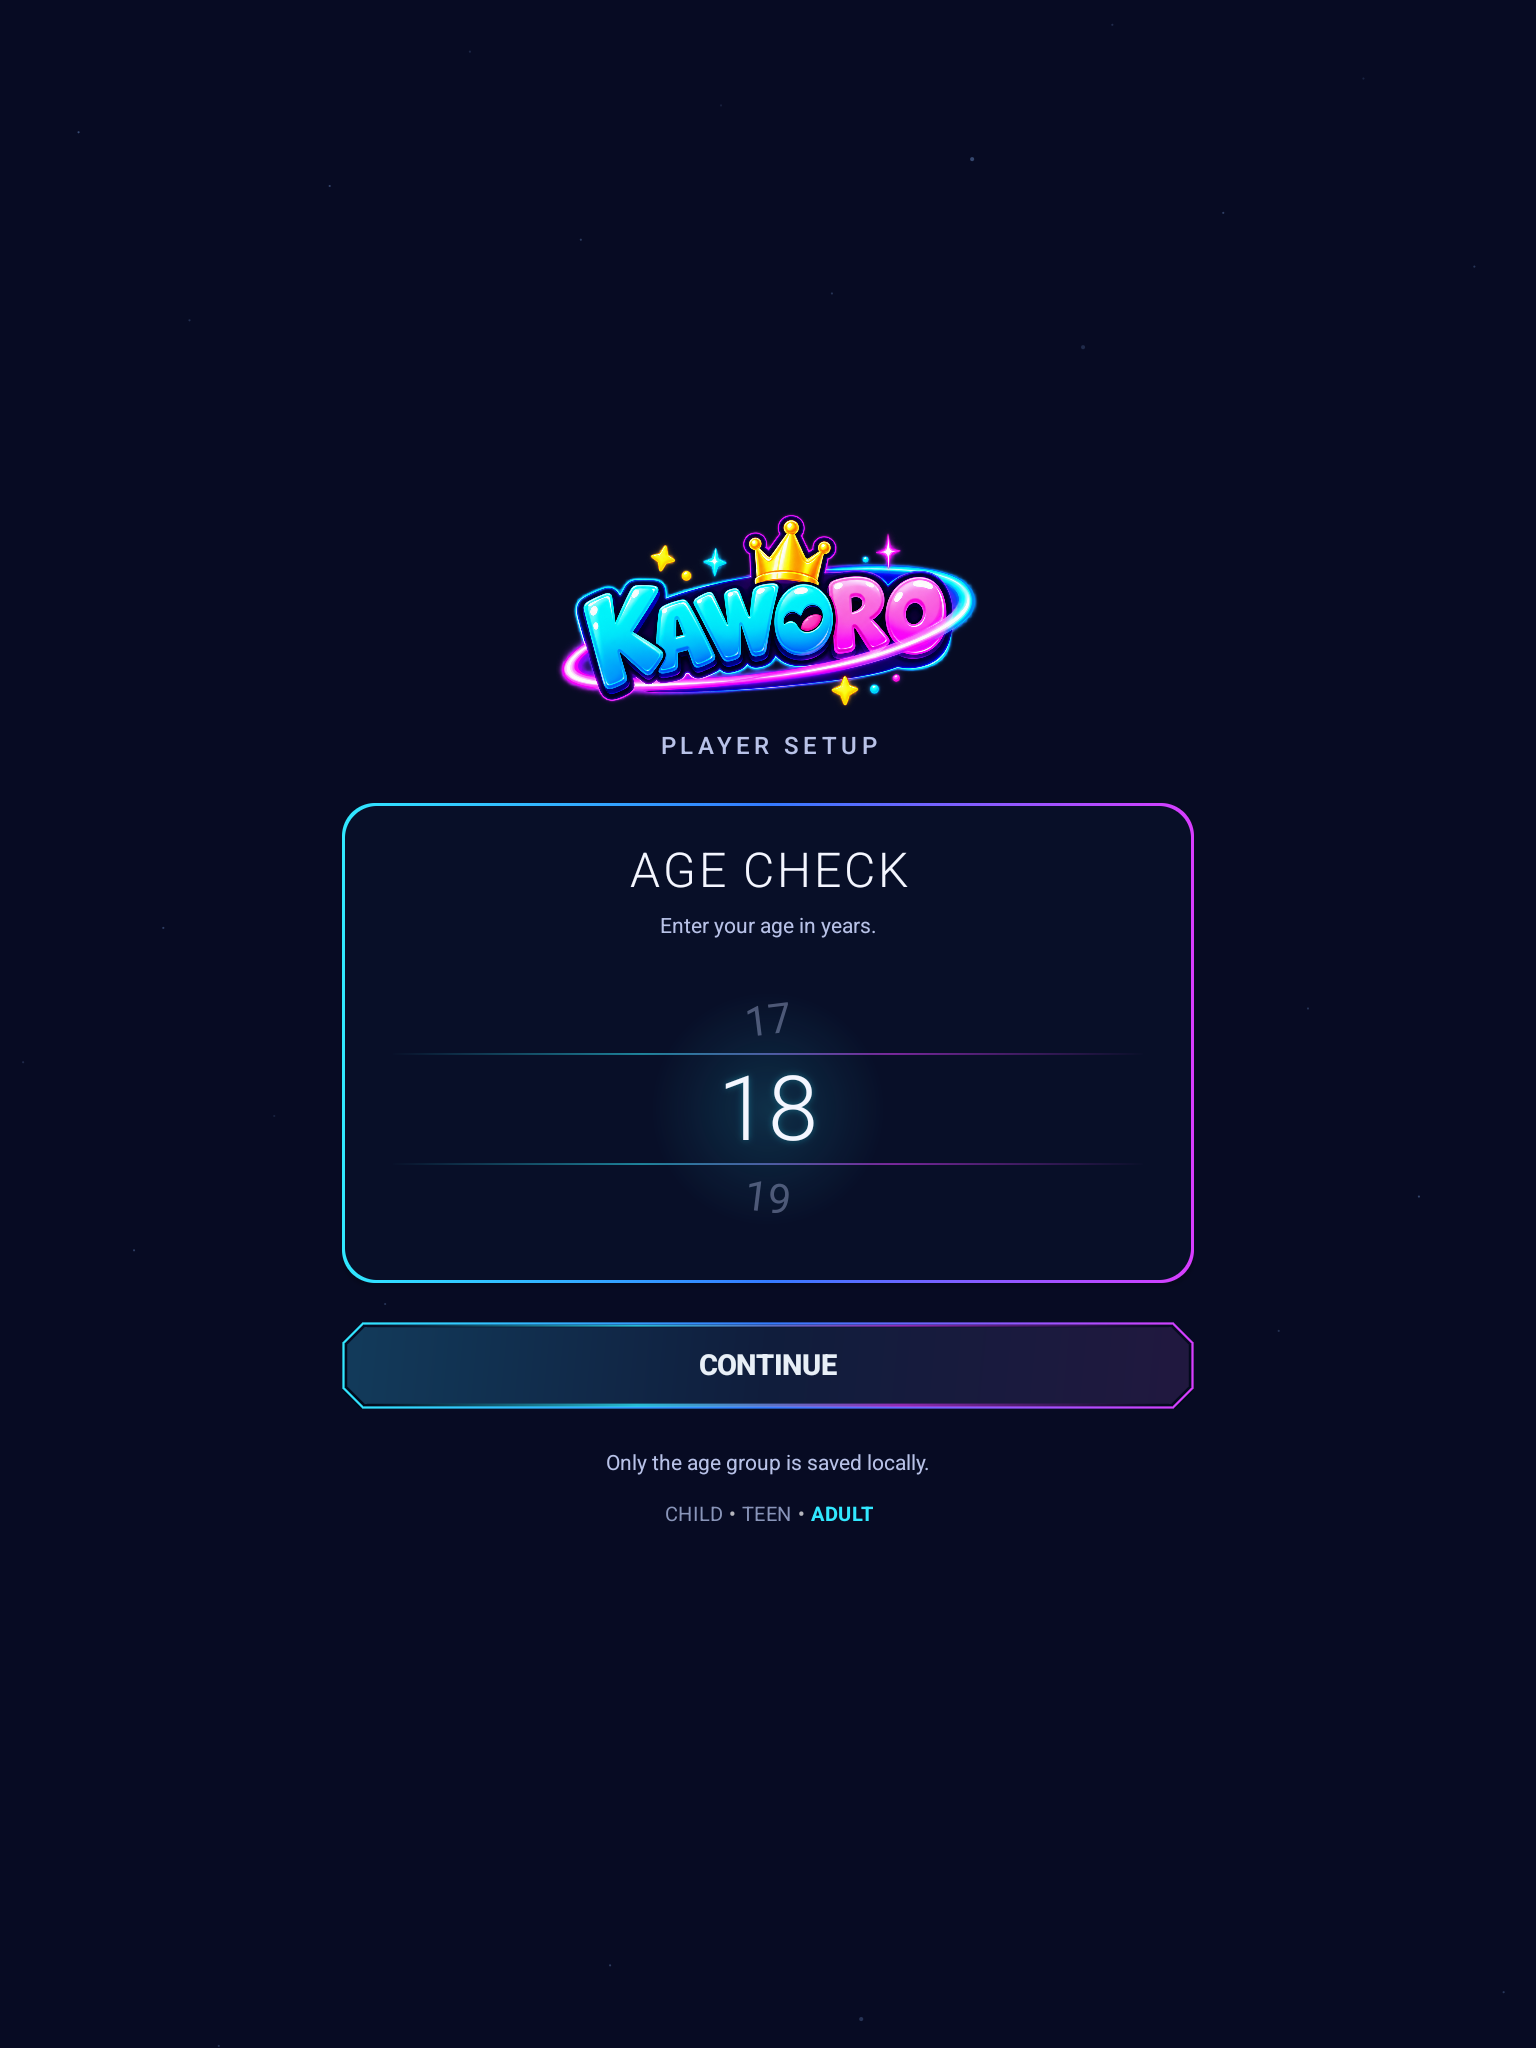
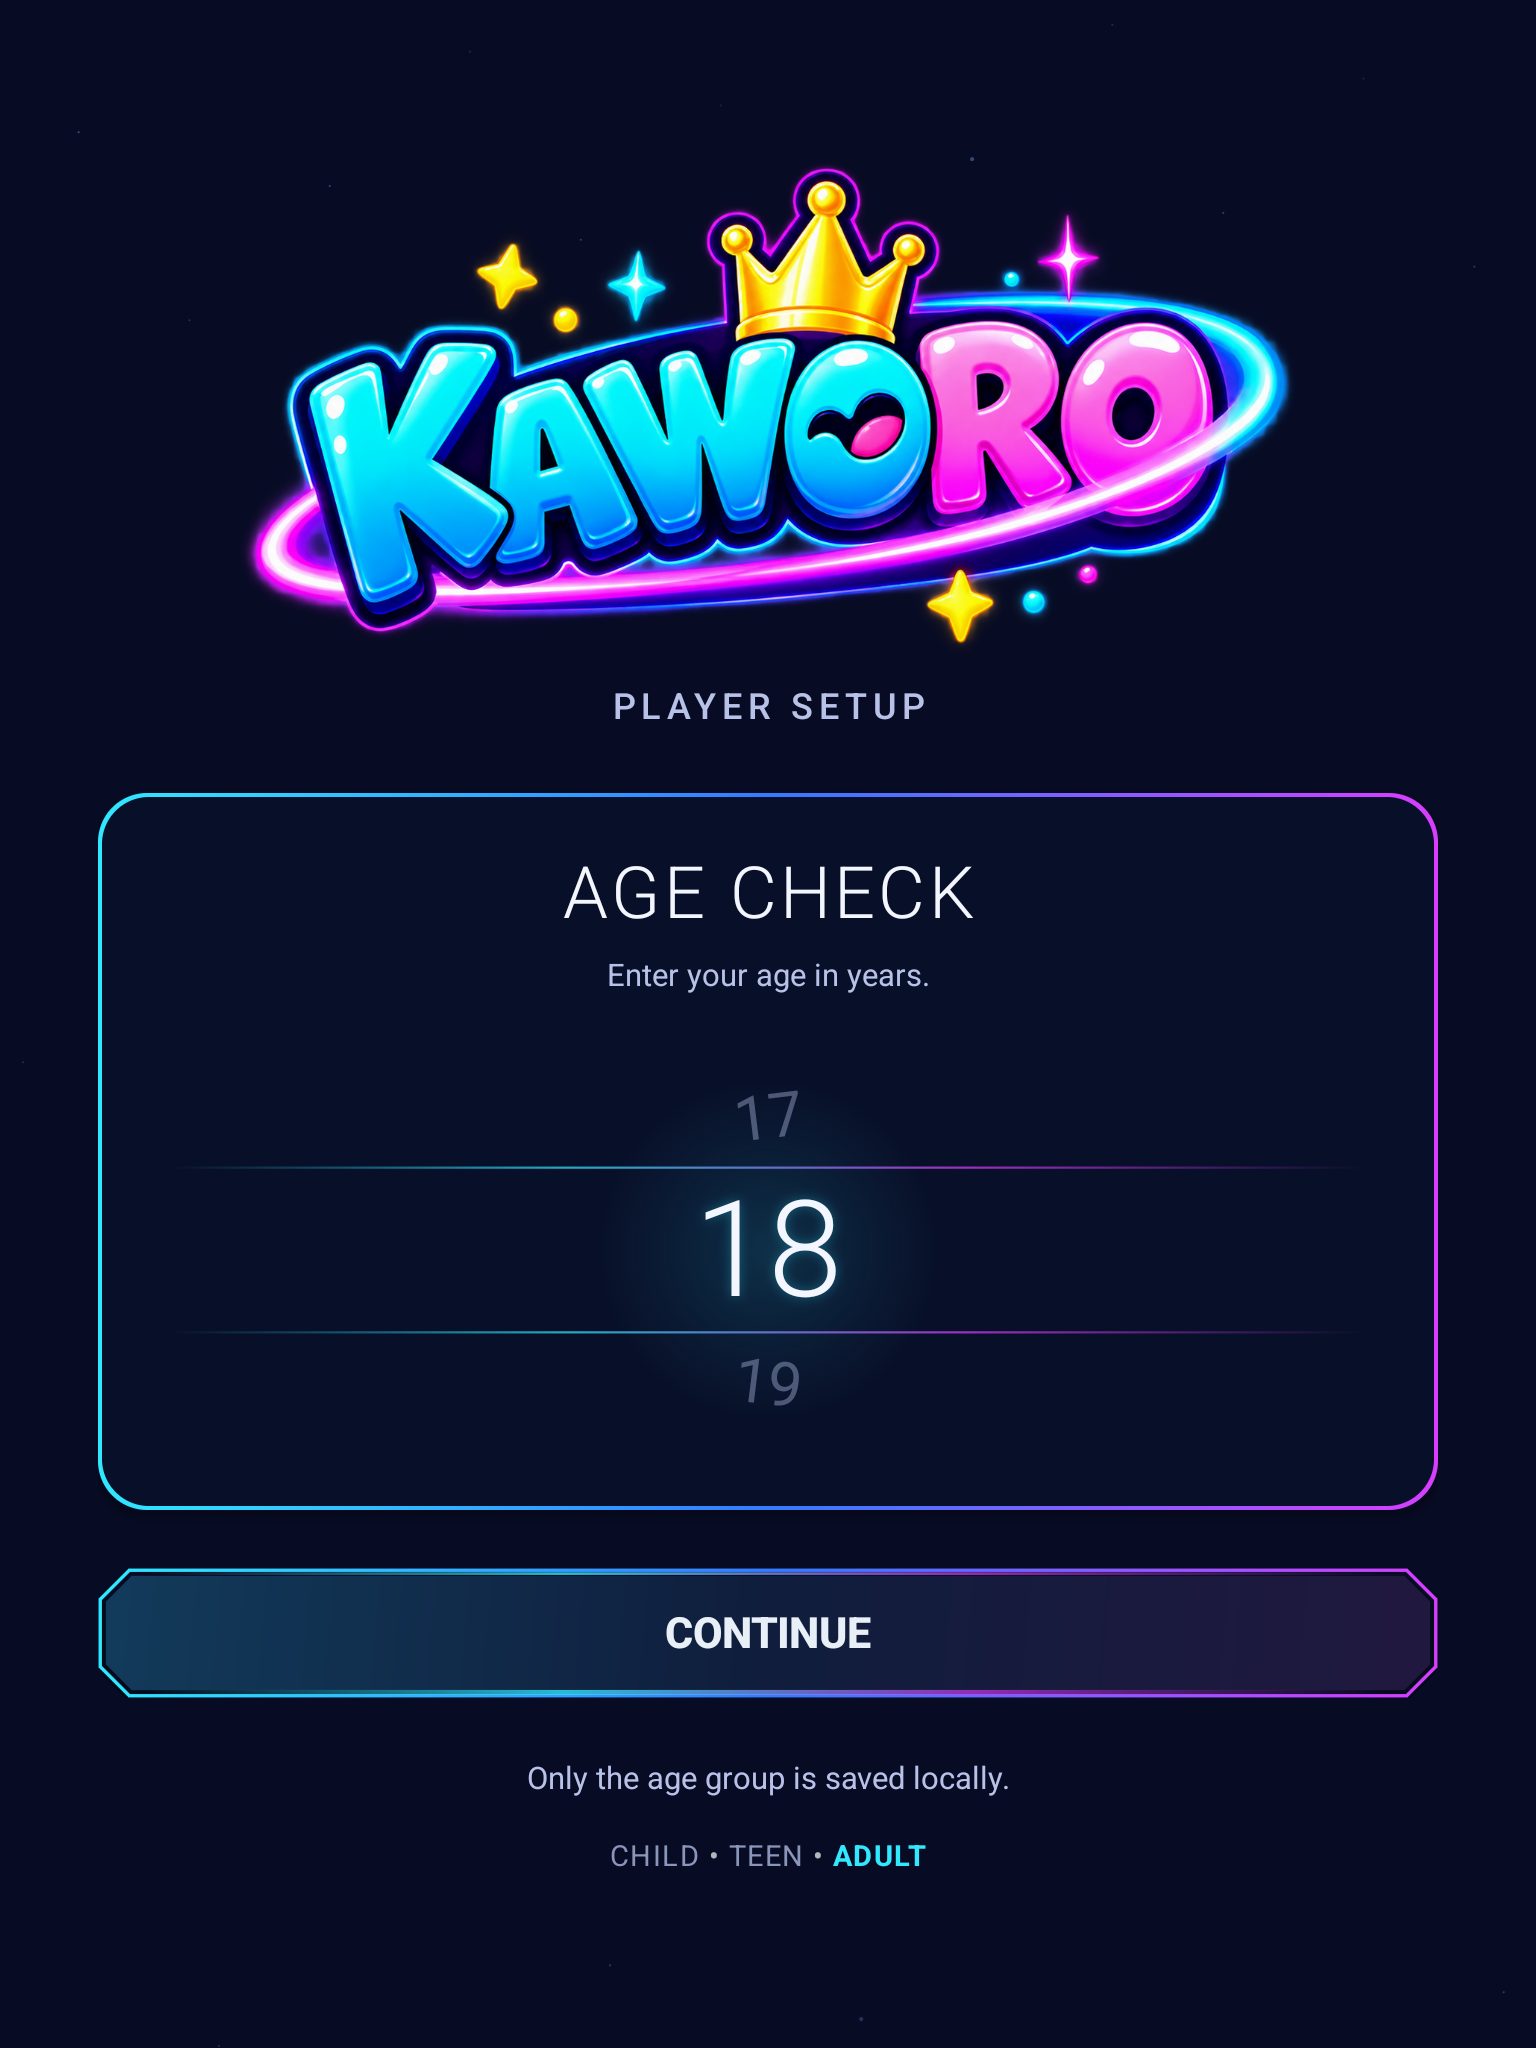
Scale Age Check for larger displays

diff --git a/app/src/main/java/com/moonsolstudios/kavvoro/ui/screens/agecheck/AgeCheckScreenView.kt b/app/src/main/java/com/moonsolstudios/kavvoro/ui/screens/agecheck/AgeCheckScreenView.kt
@@ -51,6 +51,14 @@ class AgeCheckScreenView @JvmOverloads constructor(
     private var categoryLabel: TextView? = null
     private var picker: AgePickerView? = null
 
+    private data class PortraitMetrics(
+        val compact: Boolean,
+        val scale: Float,
+        val maxWidthDp: Float,
+        val logoWidthDp: Float,
+        val logoHeightDp: Float
+    )
+
     init {
         setBackgroundColor(KavvoroPalette.background)
         setWillNotDraw(false)
@@ -84,8 +92,9 @@ class AgeCheckScreenView @JvmOverloads constructor(
         val landscape = resources.configuration.orientation ==
             android.content.res.Configuration.ORIENTATION_LANDSCAPE &&
             resources.configuration.smallestScreenWidthDp >= 600
-        val body = if (landscape) buildLandscapeLayout() else buildPortraitLayout()
-        val maxWidth = if (landscape) dp(1160f) else dp(620f)
+        val portraitMetrics = if (landscape) null else portraitMetrics()
+        val body = if (landscape) buildLandscapeLayout() else buildPortraitLayout(portraitMetrics!!)
+        val maxWidth = if (landscape) dp(1160f) else dp(portraitMetrics!!.maxWidthDp)
         addView(
             body,
             LayoutParams(minOf(maxWidth, resources.displayMetrics.widthPixels),
@@ -93,32 +102,63 @@ class AgeCheckScreenView @JvmOverloads constructor(
         )
     }
 
-    private fun buildPortraitLayout(): View {
+    private fun portraitMetrics(): PortraitMetrics {
+        val density = resources.displayMetrics.density
+        val widthDp = resources.displayMetrics.widthPixels / density
         val heightDp = resources.configuration.screenHeightDp.takeIf { it > 0 }
             ?: (resources.displayMetrics.heightPixels / resources.displayMetrics.density).roundToInt()
+        val widthScale = (widthDp / 411f).coerceIn(0.8f, 2.5f)
+        // 1080x2400 at 420 dpi is the canonical 411x914 dp composition.
+        // Tablets grow with their available height, while small phones retain
+        // the existing legible minimum instead of shrinking every control.
+        val scale = minOf(widthDp / 411f, heightDp / 914f).coerceIn(1f, 1.5f)
         val compact = heightDp < 840
+        val maxWidthDp = 650f * scale
+        val contentWidthDp = (min(widthDp, maxWidthDp) - 52f * scale).coerceAtLeast(0f)
+        val logoWidthDp = minOf(286f * widthScale, contentWidthDp * 0.82f)
+        return PortraitMetrics(
+            compact = compact,
+            scale = scale,
+            maxWidthDp = maxWidthDp,
+            logoWidthDp = logoWidthDp,
+            logoHeightDp = logoWidthDp * (132f / 286f)
+        )
+    }
+
+    private fun buildPortraitLayout(metrics: PortraitMetrics): View {
+        val compact = metrics.compact
+        val scale = metrics.scale
         val content = LinearLayout(context).apply {
             orientation = LinearLayout.VERTICAL
             gravity = Gravity.CENTER_HORIZONTAL
-            setPadding(dp(26f), dp(if (compact) 14f else 22f), dp(26f), dp(if (compact) 14f else 22f))
+            setPadding(
+                dp(26f * scale),
+                dp((if (compact) 14f else 22f) * scale),
+                dp(26f * scale),
+                dp((if (compact) 14f else 22f) * scale)
+            )
         }
         content.addView(Space(context), LinearLayout.LayoutParams(1, 0, 1f))
         content.addView(
             logoImage(),
-            LinearLayout.LayoutParams(dp(if (compact) 250f else 286f), dp(if (compact) 116f else 132f))
+            LinearLayout.LayoutParams(dp(metrics.logoWidthDp), dp(metrics.logoHeightDp))
         )
-        content.addView(setupLabel(), linearParams(height = dp(30f)).apply { topMargin = dp(8f) })
-        content.addView(makeAgeCard(compact), linearParams(height = dp(if (compact) 276f else 320f)).apply {
-            topMargin = dp(if (compact) 16f else 24f)
+        content.addView(setupLabel(scale), linearParams(height = dp(30f * scale)).apply {
+            topMargin = dp(8f * scale)
         })
-        content.addView(continueButton(), linearParams(height = dp(58f)).apply {
-            topMargin = dp(if (compact) 20f else 26f)
+        content.addView(makeAgeCard(compact, scale), linearParams(
+            height = dp((if (compact) 276f else 320f) * scale)
+        ).apply {
+            topMargin = dp((if (compact) 16f else 24f) * scale)
         })
-        content.addView(privacyNote(), linearParams(height = dp(30f)).apply {
-            topMargin = dp(if (compact) 14f else 20f)
+        content.addView(continueButton(scale), linearParams(height = dp(58f * scale)).apply {
+            topMargin = dp((if (compact) 20f else 26f) * scale)
         })
-        content.addView(categoryLine(), linearParams(height = dp(28f)).apply {
-            topMargin = dp(6f)
+        content.addView(privacyNote(scale), linearParams(height = dp(30f * scale)).apply {
+            topMargin = dp((if (compact) 14f else 20f) * scale)
+        })
+        content.addView(categoryLine(scale), linearParams(height = dp(28f * scale)).apply {
+            topMargin = dp(6f * scale)
         })
         content.addView(Space(context), LinearLayout.LayoutParams(1, 0, 1f))
         return content
@@ -162,10 +202,10 @@ class AgeCheckScreenView @JvmOverloads constructor(
         importantForAccessibility = View.IMPORTANT_FOR_ACCESSIBILITY_YES
     }
 
-    private fun setupLabel() = TextView(context).apply {
+    private fun setupLabel(scale: Float = 1f) = TextView(context).apply {
         text = t("PLAYER SETUP")
         setTextColor(KavvoroPalette.mutedText)
-        setTextSize(16f)
+        setTextSize(16f * scale)
         letterSpacing = 0.18f
         gravity = Gravity.CENTER
         typeface = Typeface.create("sans-serif-medium", Typeface.NORMAL)
@@ -173,27 +213,28 @@ class AgeCheckScreenView @JvmOverloads constructor(
         contentDescription = text
     }
 
-    private fun makeAgeCard(compact: Boolean): View {
+    private fun makeAgeCard(compact: Boolean, scale: Float = 1f): View {
         val border = FrameLayout(context).apply {
             background = android.graphics.drawable.GradientDrawable(
                 android.graphics.drawable.GradientDrawable.Orientation.LEFT_RIGHT,
                 intArrayOf(KavvoroPalette.cyan, KavvoroPalette.blue, KavvoroPalette.magenta)
-            ).apply { cornerRadius = dp(22f).toFloat() }
-            elevation = dp(8f).toFloat()
+            ).apply { cornerRadius = dp(22f * scale).toFloat() }
+            elevation = dp(8f * scale).toFloat()
         }
         val panel = LinearLayout(context).apply {
             orientation = LinearLayout.VERTICAL
             gravity = Gravity.CENTER_HORIZONTAL
-            setPadding(dp(18f), dp(if (compact) 14f else 20f), dp(18f), dp(12f))
+            setPadding(dp(18f * scale), dp((if (compact) 14f else 20f) * scale),
+                dp(18f * scale), dp(12f * scale))
             background = android.graphics.drawable.GradientDrawable().apply {
                 setColor(Color.rgb(8, 15, 40))
-                cornerRadius = dp(21f).toFloat()
+                cornerRadius = dp(21f * scale).toFloat()
             }
         }
         val title = TextView(context).apply {
             text = t("AGE CHECK")
             setTextColor(Color.rgb(244, 246, 255))
-            setTextSize(UiTypography.screenTitleDp(compact))
+            setTextSize(UiTypography.screenTitleDp(compact) * scale)
             letterSpacing = 0.06f
             gravity = Gravity.CENTER
             typeface = Typeface.create("sans-serif-light", Typeface.NORMAL)
@@ -207,28 +248,30 @@ class AgeCheckScreenView @JvmOverloads constructor(
             gravity = Gravity.CENTER
             maxLines = 2
         }
-        val agePicker = AgePickerView(context, selectedAge).apply {
-            onAgeChanged = { age ->
+        subtitle.setTextSize(UiTypography.screenSubtitleDp(compact) * scale)
+        panel.addView(title, linearParams(height = dp(40f * scale)))
+        panel.addView(subtitle, linearParams(height = dp(34f * scale)).apply {
+            topMargin = dp(2f * scale)
+        })
+        panel.addView(AgePickerView(context, selectedAge, scale).also { agePicker ->
+            agePicker.onAgeChanged = { age ->
                 selectedAge = age
                 updateCategoryLine()
             }
-        }
-        picker = agePicker
-        panel.addView(title, linearParams(height = dp(40f)))
-        panel.addView(subtitle, linearParams(height = dp(34f)).apply { topMargin = dp(2f) })
-        panel.addView(agePicker, LinearLayout.LayoutParams(
+            picker = agePicker
+        }, LinearLayout.LayoutParams(
             ViewGroup.LayoutParams.MATCH_PARENT, 0, 1f
-        ).apply { topMargin = dp(4f) })
+        ).apply { topMargin = dp(4f * scale) })
         border.addView(panel, LayoutParams(
             ViewGroup.LayoutParams.MATCH_PARENT,
             ViewGroup.LayoutParams.MATCH_PARENT
-        ).apply { setMargins(dp(2f), dp(2f), dp(2f), dp(2f)) })
+        ).apply { setMargins(dp(2f * scale), dp(2f * scale), dp(2f * scale), dp(2f * scale)) })
         return border
     }
 
-    private fun continueButton(): View {
+    private fun continueButton(scale: Float = 1f): View {
         val locale = java.util.Locale.forLanguageTag(KavvoroI18n.active(context).code.replace('_', '-'))
-        val button = AgeContinueButton(context, t("CONTINUE").uppercase(locale))
+        val button = AgeContinueButton(context, t("CONTINUE").uppercase(locale), scale)
         button.setOnClickListener {
             button.performHapticFeedback(HapticFeedbackConstants.VIRTUAL_KEY)
             onConfirm(ageGroupForAge(selectedAge))
@@ -236,17 +279,17 @@ class AgeCheckScreenView @JvmOverloads constructor(
         return button
     }
 
-    private fun privacyNote() = TextView(context).apply {
+    private fun privacyNote(scale: Float = 1f) = TextView(context).apply {
         text = t("Only the age group is saved locally.")
         setTextColor(KavvoroPalette.mutedText)
-        setTextSize(14f)
+        setTextSize(14f * scale)
         gravity = Gravity.CENTER
         maxLines = 2
         contentDescription = text
     }
 
-    private fun categoryLine() = TextView(context).apply {
-        setTextSize(13f)
+    private fun categoryLine(scale: Float = 1f) = TextView(context).apply {
+        setTextSize(13f * scale)
         letterSpacing = 0.05f
         gravity = Gravity.CENTER
         maxLines = 1
@@ -304,7 +347,11 @@ internal fun ageGroupForAge(age: Int): AgeGroup = when {
 }
 
 /** A clean beveled call to action that stays legible across translated labels. */
-private class AgeContinueButton(context: Context, private val label: String) : View(context) {
+private class AgeContinueButton(
+    context: Context,
+    private val label: String,
+    private val layoutScale: Float
+) : View(context) {
     private val density = resources.displayMetrics.density
     private val edgePaint = Paint(Paint.ANTI_ALIAS_FLAG).apply { style = Paint.Style.STROKE }
     private val facePaint = Paint(Paint.ANTI_ALIAS_FLAG)
@@ -412,10 +459,14 @@ private class AgeContinueButton(context: Context, private val label: String) : V
         path.close()
     }
 
-    private fun dp(value: Float): Float = value * density
+    private fun dp(value: Float): Float = value * density * layoutScale
 }
 
-private class AgePickerView(context: Context, initialAge: Int) : View(context) {
+private class AgePickerView(
+    context: Context,
+    initialAge: Int,
+    private val layoutScale: Float
+) : View(context) {
     private val density = resources.displayMetrics.density
     private val selectedTextPaint = Paint(Paint.ANTI_ALIAS_FLAG).apply {
         color = Color.rgb(244, 246, 255)
@@ -662,5 +713,5 @@ private class AgePickerView(context: Context, initialAge: Int) : View(context) {
 
     private fun accessibilityLabel(): String = "$age. ${KavvoroI18n.t(context, "Enter your age in years.")}"
 
-    private fun dp(value: Float): Float = value * density
+    private fun dp(value: Float): Float = value * density * layoutScale
 }

diff --git a/tools/screenshot-capture/retake_age_check_landscape.py b/tools/screenshot-capture/retake_age_check_landscape.py
@@ -74,6 +74,8 @@ def main() -> None:
         # Pixel Tablet's natural display orientation is landscape; keep the
         # natural rotation so the full-sensor activity receives a landscape config.
         run("shell", "settings", "put", "system", "user_rotation", "0")
+        run("shell", "input", "keyevent", "224")
+        run("shell", "wm", "dismiss-keyguard")
         run("shell", "wm", "size", f"{WIDTH}x{HEIGHT}")
         run("shell", "wm", "density", str(DENSITY))
         wait_for_landscape_viewport()
